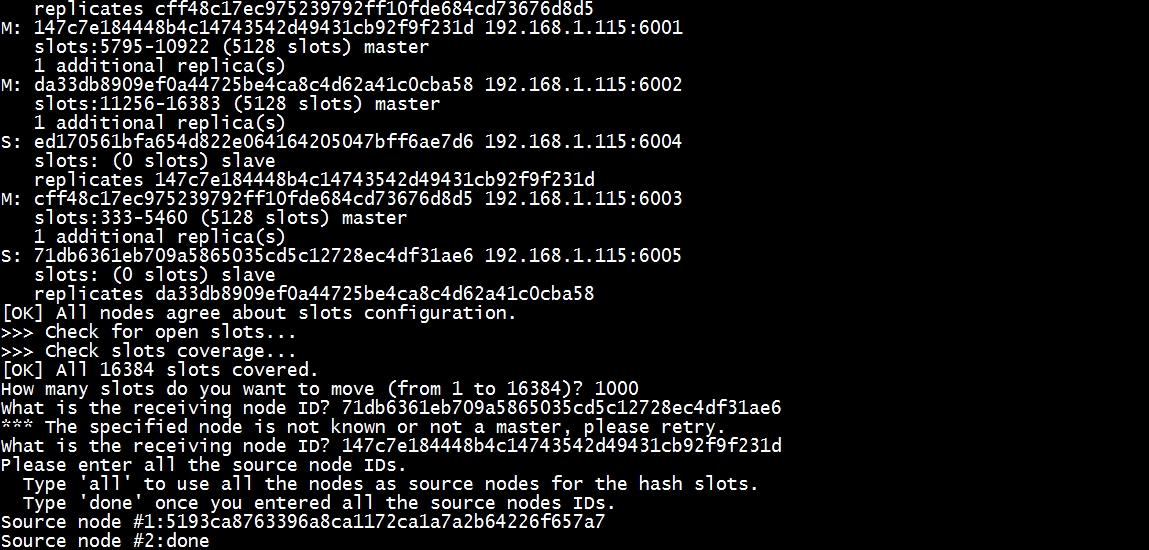
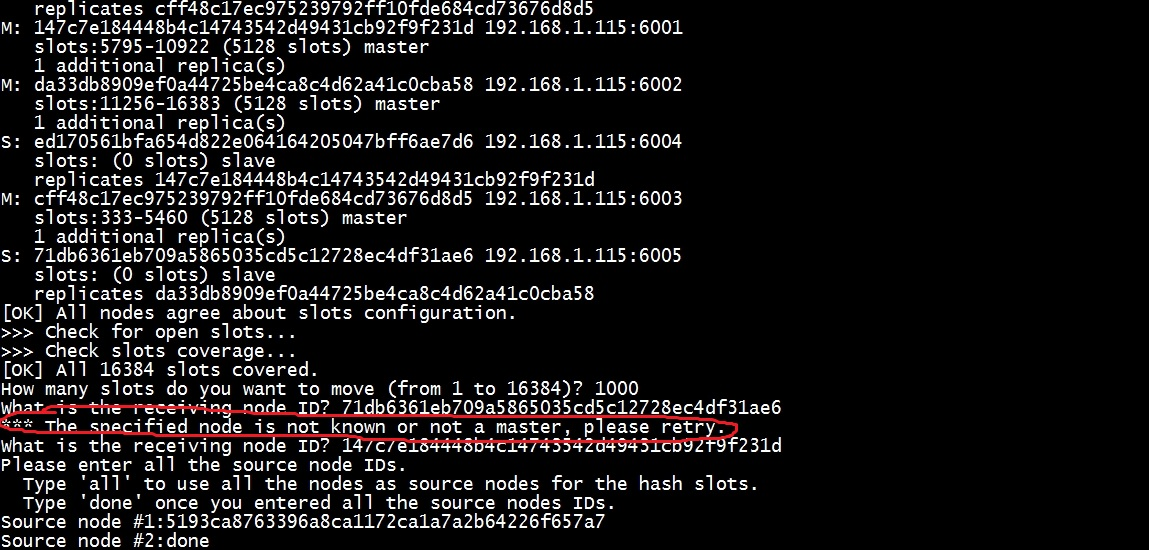
redis集群操作

Changed region(s): [[0.0, 0.7109, 0.6397, 0.8345]]

diff --git a/docs/install/rediscluster.md b/docs/install/rediscluster.md
@@ -84,11 +84,12 @@
      ![输入图片说明](https://github.com/yhf56davis/distributed-shopping/blob/master/docs/img/RedisClusterImg/6.jpg)  <br>    
      此时，出现红圈标注的错误，此时只需将该点拥有的slots全部迁移出去即可。如下二图所示。 <br>
      执行脚本：./redis-trib.rb reshard 192.168.1.115:6006
-     ![输入图片说明](https://github.com/yhf56davis/distributed-shopping/blob/master/docs/img/RedisClusterImg/7.jpg)  <br>   
+     ![输入图片说明](https://github.com/yhf56davis/distributed-shopping/blob/master/docs/img/RedisClusterImg/7.jpg)  <br>
      ![输入图片说明](https://github.com/yhf56davis/distributed-shopping/blob/master/docs/img/RedisClusterImg/8.jpg)  <br>
-     
-     
-     
+     如图，出现红圈标注的错误，换成一个master结点即可，如下诸图所示。
+     ![输入图片说明](https://github.com/yhf56davis/distributed-shopping/blob/master/docs/img/RedisClusterImg/9.jpg)  <br>
+      ![输入图片说明](https://github.com/yhf56davis/distributed-shopping/blob/master/docs/img/RedisClusterImg/10.jpg)  <br>
+      ![输入图片说明](https://github.com/yhf56davis/distributed-shopping/blob/master/docs/img/RedisClusterImg/11.jpg)  <br>
      
      
      
